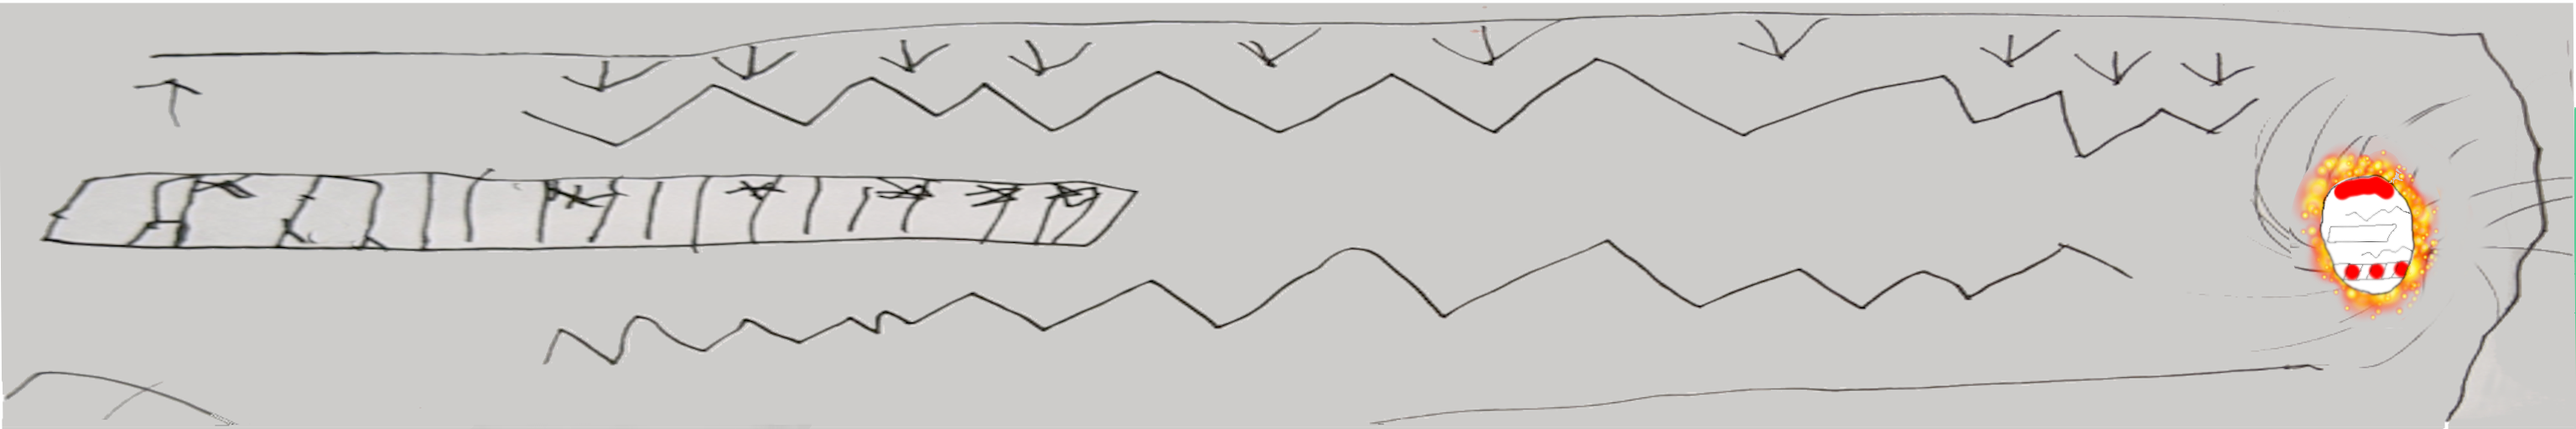
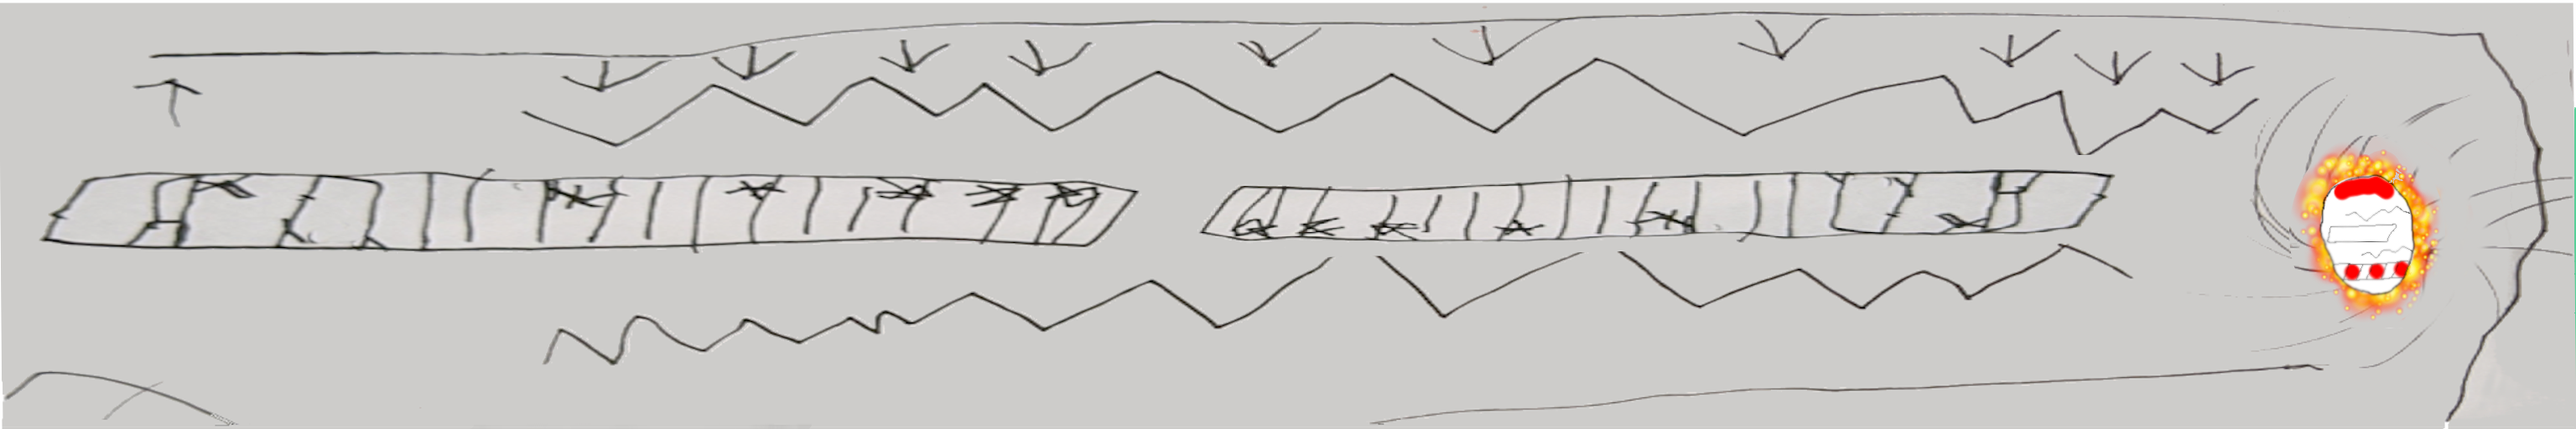
more

Changed region(s): [[0.4688, 0.375, 0.8438, 0.5938]]

diff --git a/demo/Level0/level.js b/demo/Level0/level.js
@@ -69,7 +69,7 @@ export default class Level extends Component {
               0,0,0,0,0,0,0,0,0,0,0,0,0,0,0,0,0,0,0,0,0,0,0,0,
               0,0,0,0,0,0,0,0,0,0,0,0,0,0,0,0,0,0,0,0,0,0,0,0,
               0,0,0,0,0,0,0,0,0,0,0,0,0,0,0,0,0,0,0,0,0,0,0,0,
-              1,1,1,1,1,1,1,1,1,1,1,1,1,1,1,1,1,1,1,1,1,1,1,1,
+              0,0,0,0,0,0,0,0,0,0,0,0,0,0,0,0,0,0,0,0,0,0,0,0,
             ]
           ]}
         />
